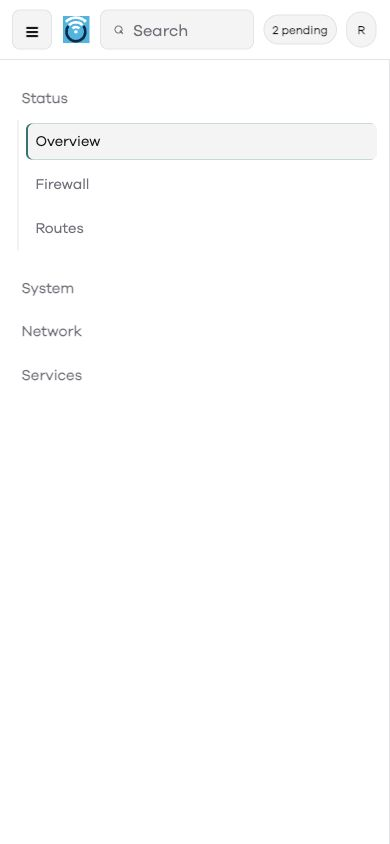
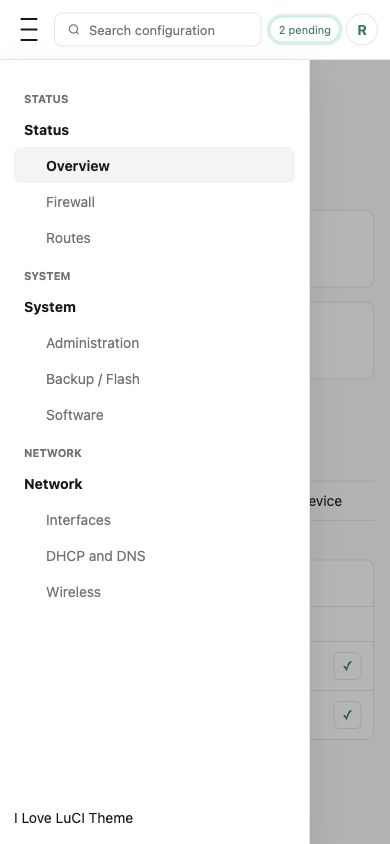
add README screenshot gallery

diff --git a/README.md b/README.md
@@ -10,6 +10,22 @@ The theme should be clean, minimal, and practical for daily router administratio
 
 The long-term goal is a polished I Love LuCI theme that can be installed as a normal LuCI theme package, selected from LuCI's language/style settings, and safely tested on real routers without touching unrelated system configuration.
 
+## Gallery
+
+These screenshots are generated from sanitized demo screens that mirror the current theme layout and styling. They do not contain real router hostnames, addresses, leases, MACs, or configuration values.
+
+| Desktop overview | Header search |
+| --- | --- |
+| ![Desktop overview with header search, sidebar navigation, and flat status content](docs/assets/desktop-overview.jpg) | ![Desktop search popover showing configuration results](docs/assets/desktop-search.jpg) |
+
+| Theme settings | Login |
+| --- | --- |
+| ![Theme settings page with simplified save, font, and menu options](docs/assets/desktop-theme-settings.jpg) | ![Centered modern login screen](docs/assets/login.jpg) |
+
+| Mobile sidebar | Mobile search |
+| --- | --- |
+| ![Mobile sidebar with active route highlighting](docs/assets/mobile-sidebar.jpg) | ![Mobile search results popover below the header search field](docs/assets/mobile-search.jpg) |
+
 ## Install Without Building
 
 The intended user path is an installable package feed published from CI, not asking users to clone this repo or run the OpenWrt SDK. The public feed is published by GitHub Pages at:
@@ -56,14 +72,6 @@ The CI/CD publishing model is:
 - Signing: publish `Packages.sig` for 24.10/opkg using `usign`; publish the 25.12/apk feed with the SDK apk signing flow and document the public key installation path before asking users to trust the feed. Signing secrets are not configured yet.
 
 This gives users two standard install paths: add a feed and install with package tooling, or download a release asset for one-off manual installation.
-
-## Screenshots
-
-These screenshots are generated from a sanitized demo page using the current theme CSS. They do not contain real router hostnames, addresses, leases, MACs, or configuration values.
-
-![Desktop overview with header search and flat status content](docs/assets/desktop-overview.jpg)
-
-![Mobile header and sidebar navigation](docs/assets/mobile-sidebar.jpg)
 
 ## Design Goals
 